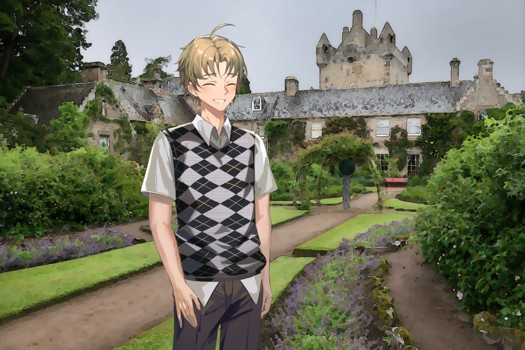
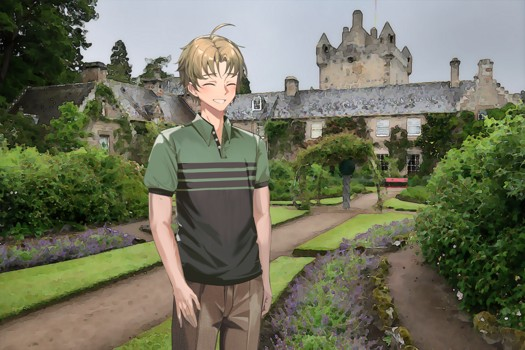
Finish journal
- Finish chapter 28 journal
- Update image generation script to not crash when missing an input image

Changed region(s): [[0.2438, 0.3143, 0.5486, 1.0]]

diff --git a/scripts/shimgx.py b/scripts/shimgx.py
@@ -162,6 +162,9 @@ class ImageProcess:
         if outpath.exists() and not replace:
             print(f"Skipping already existing image at {outpath}")
             return
+        if not inpath.exists():
+            print(f"[WARNING] Skipping non-existant input image: {inpath}")
+            return
         outpath.parent.mkdir(exist_ok=True)
         transforms = self.transforms
         print(f"Transforming image <{inpath}>")
@@ -240,7 +243,7 @@ PHOTOGRAPHS: list[tuple[str, str, list[ImageTransformation]]] = [
     ("event/planeride/planeride_bliss.jpg", "gui/journal/p01.jpg", [crop(300, 0, 1920, 1080), resize(525, 350)]),
     ("bgs/inverness_street.jpg", "gui/journal/p02.jpg", [CompositeTransformation([(700, 0, "~sprites/hanako/hanako_emb_smile.png"), (300, 0, "sprites/hisao/hisao_cross_smile_polo.png")]), crop(150, 0, 1770, 1080), resize(525, 350)]),
     ("bgs/inverness_tree.jpg", "gui/journal/p03.jpg", [CompositeTransformation([(384, 0, "~sprites/lilly/lilly_basic_cheerful_cas.png"), (1074, 30, "~sprites/hanako/hanako_basic_bashful_cas.png"), (692, 30, "sprites/hisao/hisao_basic_smile_polo.png")]), crop(162, 0, 1782, 1080), resize(525, 350)]),
-    ("reference/bgs/cawthorn.jpg", "gui/journal/p07.jpg", [CompositeTransformation([(338, 50, "sprites/hisao/hisao_basic_grin_swt.png")]), resize(525, 350)]),
+    ("reference/bgs/cawthorn.jpg", "gui/journal/p07.jpg", [CompositeTransformation([(338, 50, "sprites/hisao/hisao_basic_grin_polo.png")]), resize(525, 350)]),
     ("reference/journal/photos/p10.jpg", "gui/journal/p10.jpg", [CompositeTransformation([(793, 200, "~sprites/lilly/lilly_cane_giggle_cas.png"), (1199, 200, "sprites/akira/akira_basic_cheerful.png")]), crop(165, 220, 1756, 1280), resize(525, 350)]),
     ("reference/journal/photos/p11.jpg", "gui/journal/p11.jpg", [crop(0, 46, 1000, 712), resize(525, 350)]),
     ("reference/bgs/urquhart castle.jpg", "gui/journal/p12.jpg", [resize(525, 350)]),
@@ -269,19 +272,20 @@ PHOTOGRAPHS: list[tuple[str, str, list[ImageTransformation]]] = [
     ("reference/journal/doodles/IMG_2105.png", "gui/journal/d16e.png", [crop(1442, 1021, 1880, 1525), resize(targetheight=76)]),
     ("reference/journal/doodles/IMG_2106.png", "gui/journal/d17.png", [crop(171, 112, 1806, 1593), resize(targetheight=200)]),
     ("reference/journal/doodles/IMG_2106_nt.png", "gui/journal/d17nt.png", [crop(171, 112, 1806, 1593), resize(targetheight=200)]),
+    ("reference/journal/doodles/IMG_2118.png", "gui/journal/d18.png", [crop(548, 40, 1710, 1508), resize(targetheight=220)]),
+    ("reference/journal/doodles/IMG_2070.png", "gui/journal/d19.png", [crop(586, 369, 1458, 1460), resize(targetheight=180)]),
     ("reference/journal/doodles/IMG_2108_v2.png", "gui/journal/d20.png", [crop(16, 112, 2450, 1468), resize(targetheight=240)]),
     ("reference/journal/doodles/IMG_2109.png", "gui/journal/d21.png", [crop(82, 120, 2060, 1424), resize(targetheight=220)]),
     ("reference/journal/doodles/IMG_2109_nt.png", "gui/journal/d21nt.png", [crop(82, 120, 2060, 1424), resize(targetheight=220)]),
     ("reference/journal/doodles/IMG_2110.png", "gui/journal/d22.png", [crop(142, 222, 2048, 1426), resize(targetheight=230)]),
     ("reference/journal/doodles/IMG_2111.png", "gui/journal/d23.png", [crop(124, 384, 2048, 1214), resize(targetheight=135)]),
-    ("reference/journal/doodles/IMG_2112.png", "gui/journal/d24.png", [crop(44, 44, 2034, 1534), resize(targetheight=200)]),
+    ("reference/journal/doodles/IMG_2116.png", "gui/journal/d24.png", [crop(44, 44, 2034, 1534), resize(targetheight=200)]),
     ("reference/journal/doodles/IMG_2112_nt.png", "gui/journal/d24nt.png", [crop(44, 44, 2034, 1534), resize(targetheight=200)]),
     ("reference/journal/doodles/IMG_2113.png", "gui/journal/d25.png", [crop(260, 468, 1934, 1210), resize(targetheight=150)]),
     ("reference/journal/doodles/IMG_2114.png", "gui/journal/d26.png", [crop(232, 40, 1934, 1620), resize(targetheight=210)]),
     ("reference/journal/doodles/IMG_2115.png", "gui/journal/d27.png", [crop(94, 88, 2070, 1620), resize(targetheight=260)]),
     ("reference/journal/doodles/IMG_2115_nt.png", "gui/journal/d27nt.png", [crop(94, 88, 2070, 1620), resize(targetheight=260)]),
-    ("reference/journal/doodles/IMG_2069.png", "gui/journal/d28.png", [crop(0, 103, 2027, 1620), resize(targetheight=250)]),
-    ("reference/journal/doodles/IMG_2070.png", "gui/journal/d19.png", [crop(586, 369, 1458, 1460), resize(targetheight=180)])
+    ("reference/journal/doodles/IMG_2069.png", "gui/journal/d28.png", [crop(0, 103, 2027, 1620), resize(targetheight=250)])
 ]
 
 
